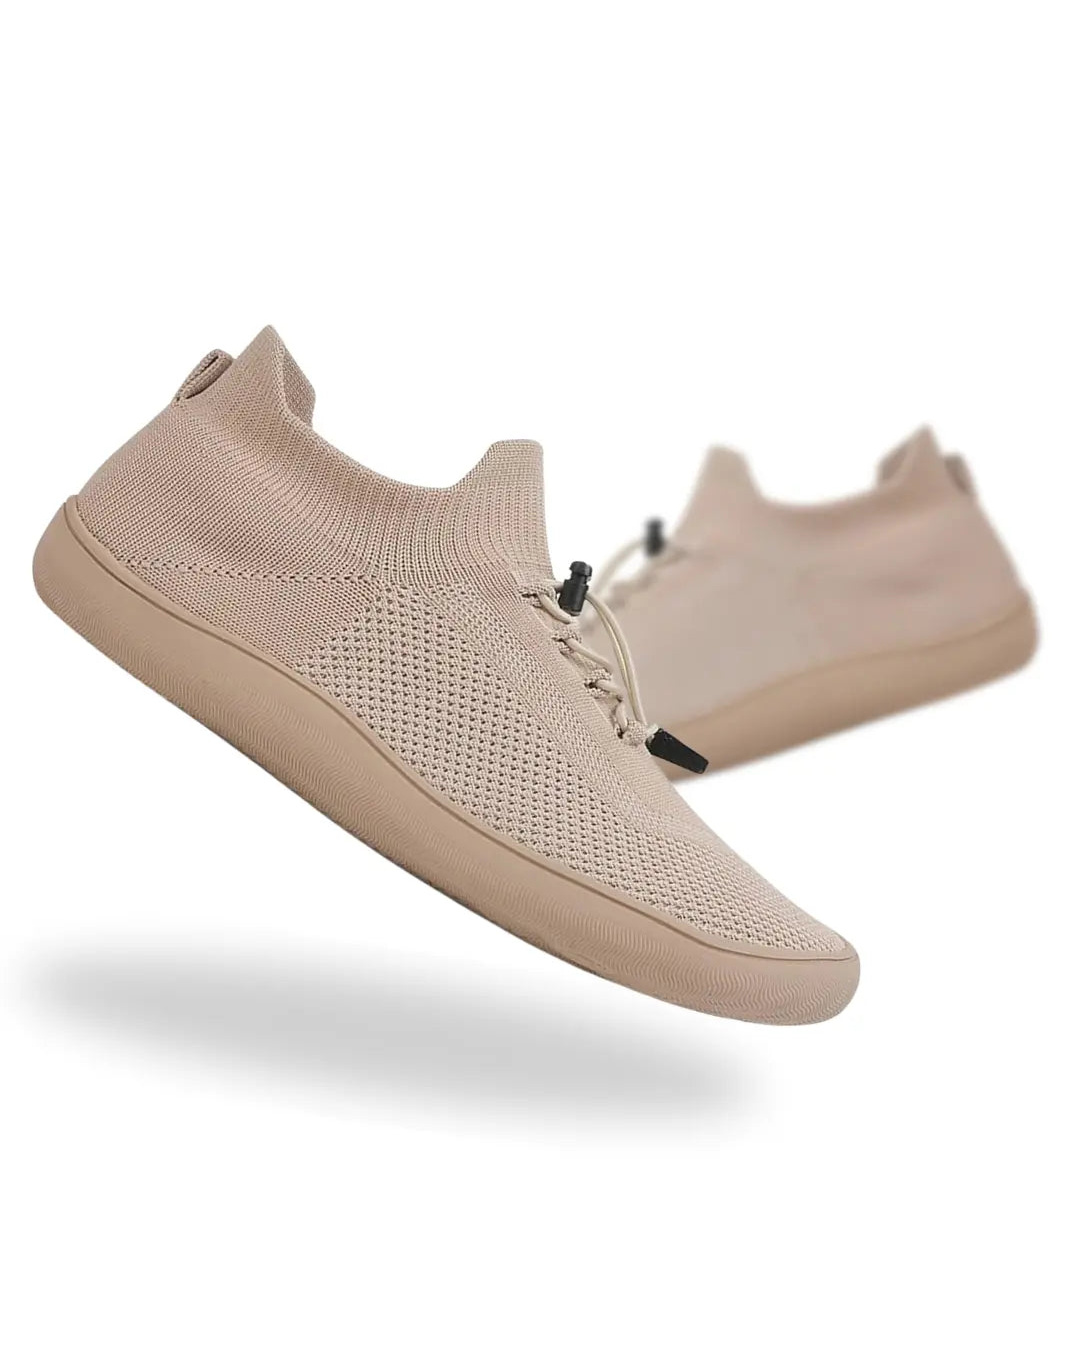
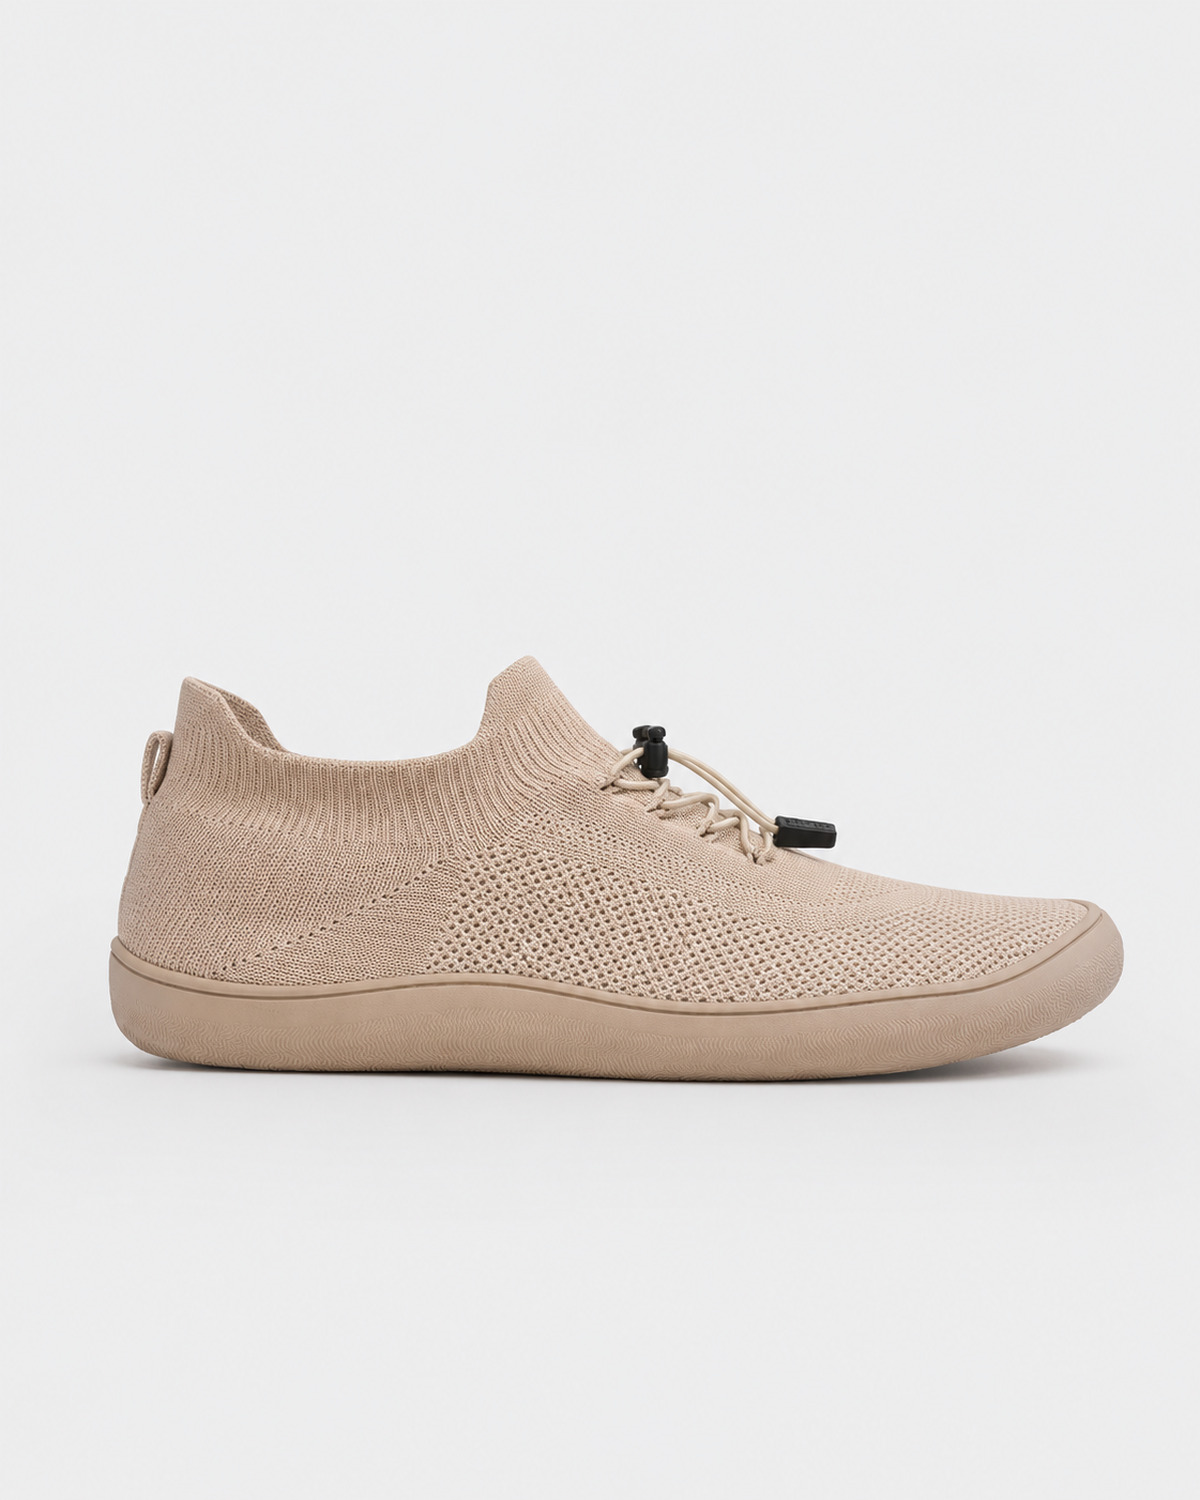
feat(roamers-beige): deploy 15-asset 4:5 master studio & outdoor gallery aligned to ETQ sequence across UK, US, AU

Changed region(s): [[0.0306, 0.2489, 0.9778, 0.8089]]

diff --git a/apps/au/src/data/products.ts b/apps/au/src/data/products.ts
@@ -566,14 +566,23 @@ export const PRODUCTS: BarefootProduct[] = [
     compareAtPrice: 179,
     currencySymbol: "A$",
     primaryImage: "/media/products/roamers-beige/buudy-barefoot-shoes-roamers-beige-wide-toe-box-hero.jpg",
-    secondaryImage: "/media/products/roamers-beige/buudy-barefoot-shoes-roamers-beige-side-profile.jpg",
+    secondaryImage: "/media/products/roamers-beige/buudy-barefoot-shoes-roamers-beige-on-foot-action-stride.jpg",
     galleryImages: [
       "/media/products/roamers-beige/buudy-barefoot-shoes-roamers-beige-wide-toe-box-hero.jpg",
-      "/media/products/roamers-beige/buudy-barefoot-shoes-roamers-beige-side-profile.jpg",
-      "/media/products/roamers-beige/buudy-barefoot-shoes-roamers-beige-angle-perspective.jpg",
-      "/media/products/roamers-beige/buudy-barefoot-shoes-roamers-beige-top-down-view.jpg",
-      "/media/products/roamers-beige/buudy-barefoot-shoes-roamers-beige-detail-upper.jpg",
-      "/media/products/roamers-beige/buudy-barefoot-shoes-roamers-beige-outsole-tread.jpg",
+      "/media/products/roamers-beige/buudy-barefoot-shoes-roamers-beige-on-foot-action-stride.jpg",
+      "/media/products/roamers-beige/buudy-barefoot-shoes-roamers-beige-studio-editorial-pair.jpg",
+      "/media/products/roamers-beige/buudy-barefoot-shoes-roamers-beige-macro-insole-footbed.jpg",
+      "/media/products/roamers-beige/buudy-barefoot-shoes-roamers-beige-coastal-stone-ocean-pair.jpg",
+      "/media/products/roamers-beige/buudy-barefoot-shoes-roamers-beige-coastal-cliff-overhead-pair.jpg",
+      "/media/products/roamers-beige/buudy-barefoot-shoes-roamers-beige-marble-floor-studio-pair.jpg",
+      "/media/products/roamers-beige/buudy-barefoot-shoes-roamers-beige-macro-heel-counter-tab.jpg",
+      "/media/products/roamers-beige/buudy-barefoot-shoes-roamers-beige-macro-knit-collar-detail.jpg",
+      "/media/products/roamers-beige/buudy-barefoot-shoes-roamers-beige-speed-bungee-toggle-macro.jpg",
+      "/media/products/roamers-beige/buudy-barefoot-shoes-roamers-beige-rear-angle-studio-pair.jpg",
+      "/media/products/roamers-beige/buudy-barefoot-shoes-roamers-beige-top-down-anatomical-view.jpg",
+      "/media/products/roamers-beige/buudy-barefoot-shoes-roamers-beige-macro-toe-box-sidewall.jpg",
+      "/media/products/roamers-beige/buudy-barefoot-shoes-roamers-beige-outsole-tread-grip.jpg",
+      "/media/products/roamers-beige/buudy-barefoot-shoes-roamers-beige-in-hand-featherlight-display.jpg",
     ],
     badge: "Trending",
     badgeType: "blue",

diff --git a/apps/uk/src/data/products.ts b/apps/uk/src/data/products.ts
@@ -576,14 +576,23 @@ export const PRODUCTS: BarefootProduct[] = [
     compareAtPrice: 99,
     currencySymbol: "£",
     primaryImage: "/media/products/roamers-beige/buudy-barefoot-shoes-roamers-beige-wide-toe-box-hero.jpg",
-    secondaryImage: "/media/products/roamers-beige/buudy-barefoot-shoes-roamers-beige-side-profile.jpg",
+    secondaryImage: "/media/products/roamers-beige/buudy-barefoot-shoes-roamers-beige-on-foot-action-stride.jpg",
     galleryImages: [
       "/media/products/roamers-beige/buudy-barefoot-shoes-roamers-beige-wide-toe-box-hero.jpg",
-      "/media/products/roamers-beige/buudy-barefoot-shoes-roamers-beige-side-profile.jpg",
-      "/media/products/roamers-beige/buudy-barefoot-shoes-roamers-beige-angle-perspective.jpg",
-      "/media/products/roamers-beige/buudy-barefoot-shoes-roamers-beige-top-down-view.jpg",
-      "/media/products/roamers-beige/buudy-barefoot-shoes-roamers-beige-detail-upper.jpg",
-      "/media/products/roamers-beige/buudy-barefoot-shoes-roamers-beige-outsole-tread.jpg",
+      "/media/products/roamers-beige/buudy-barefoot-shoes-roamers-beige-on-foot-action-stride.jpg",
+      "/media/products/roamers-beige/buudy-barefoot-shoes-roamers-beige-studio-editorial-pair.jpg",
+      "/media/products/roamers-beige/buudy-barefoot-shoes-roamers-beige-macro-insole-footbed.jpg",
+      "/media/products/roamers-beige/buudy-barefoot-shoes-roamers-beige-coastal-stone-ocean-pair.jpg",
+      "/media/products/roamers-beige/buudy-barefoot-shoes-roamers-beige-coastal-cliff-overhead-pair.jpg",
+      "/media/products/roamers-beige/buudy-barefoot-shoes-roamers-beige-marble-floor-studio-pair.jpg",
+      "/media/products/roamers-beige/buudy-barefoot-shoes-roamers-beige-macro-heel-counter-tab.jpg",
+      "/media/products/roamers-beige/buudy-barefoot-shoes-roamers-beige-macro-knit-collar-detail.jpg",
+      "/media/products/roamers-beige/buudy-barefoot-shoes-roamers-beige-speed-bungee-toggle-macro.jpg",
+      "/media/products/roamers-beige/buudy-barefoot-shoes-roamers-beige-rear-angle-studio-pair.jpg",
+      "/media/products/roamers-beige/buudy-barefoot-shoes-roamers-beige-top-down-anatomical-view.jpg",
+      "/media/products/roamers-beige/buudy-barefoot-shoes-roamers-beige-macro-toe-box-sidewall.jpg",
+      "/media/products/roamers-beige/buudy-barefoot-shoes-roamers-beige-outsole-tread-grip.jpg",
+      "/media/products/roamers-beige/buudy-barefoot-shoes-roamers-beige-in-hand-featherlight-display.jpg",
     ],
     badge: "Trending",
     badgeType: "blue",

diff --git a/apps/us/src/data/products.ts b/apps/us/src/data/products.ts
@@ -566,14 +566,23 @@ export const PRODUCTS: BarefootProduct[] = [
     compareAtPrice: 119,
     currencySymbol: "$",
     primaryImage: "/media/products/roamers-beige/buudy-barefoot-shoes-roamers-beige-wide-toe-box-hero.jpg",
-    secondaryImage: "/media/products/roamers-beige/buudy-barefoot-shoes-roamers-beige-side-profile.jpg",
+    secondaryImage: "/media/products/roamers-beige/buudy-barefoot-shoes-roamers-beige-on-foot-action-stride.jpg",
     galleryImages: [
       "/media/products/roamers-beige/buudy-barefoot-shoes-roamers-beige-wide-toe-box-hero.jpg",
-      "/media/products/roamers-beige/buudy-barefoot-shoes-roamers-beige-side-profile.jpg",
-      "/media/products/roamers-beige/buudy-barefoot-shoes-roamers-beige-angle-perspective.jpg",
-      "/media/products/roamers-beige/buudy-barefoot-shoes-roamers-beige-top-down-view.jpg",
-      "/media/products/roamers-beige/buudy-barefoot-shoes-roamers-beige-detail-upper.jpg",
-      "/media/products/roamers-beige/buudy-barefoot-shoes-roamers-beige-outsole-tread.jpg",
+      "/media/products/roamers-beige/buudy-barefoot-shoes-roamers-beige-on-foot-action-stride.jpg",
+      "/media/products/roamers-beige/buudy-barefoot-shoes-roamers-beige-studio-editorial-pair.jpg",
+      "/media/products/roamers-beige/buudy-barefoot-shoes-roamers-beige-macro-insole-footbed.jpg",
+      "/media/products/roamers-beige/buudy-barefoot-shoes-roamers-beige-coastal-stone-ocean-pair.jpg",
+      "/media/products/roamers-beige/buudy-barefoot-shoes-roamers-beige-coastal-cliff-overhead-pair.jpg",
+      "/media/products/roamers-beige/buudy-barefoot-shoes-roamers-beige-marble-floor-studio-pair.jpg",
+      "/media/products/roamers-beige/buudy-barefoot-shoes-roamers-beige-macro-heel-counter-tab.jpg",
+      "/media/products/roamers-beige/buudy-barefoot-shoes-roamers-beige-macro-knit-collar-detail.jpg",
+      "/media/products/roamers-beige/buudy-barefoot-shoes-roamers-beige-speed-bungee-toggle-macro.jpg",
+      "/media/products/roamers-beige/buudy-barefoot-shoes-roamers-beige-rear-angle-studio-pair.jpg",
+      "/media/products/roamers-beige/buudy-barefoot-shoes-roamers-beige-top-down-anatomical-view.jpg",
+      "/media/products/roamers-beige/buudy-barefoot-shoes-roamers-beige-macro-toe-box-sidewall.jpg",
+      "/media/products/roamers-beige/buudy-barefoot-shoes-roamers-beige-outsole-tread-grip.jpg",
+      "/media/products/roamers-beige/buudy-barefoot-shoes-roamers-beige-in-hand-featherlight-display.jpg",
     ],
     badge: "Trending",
     badgeType: "blue",
